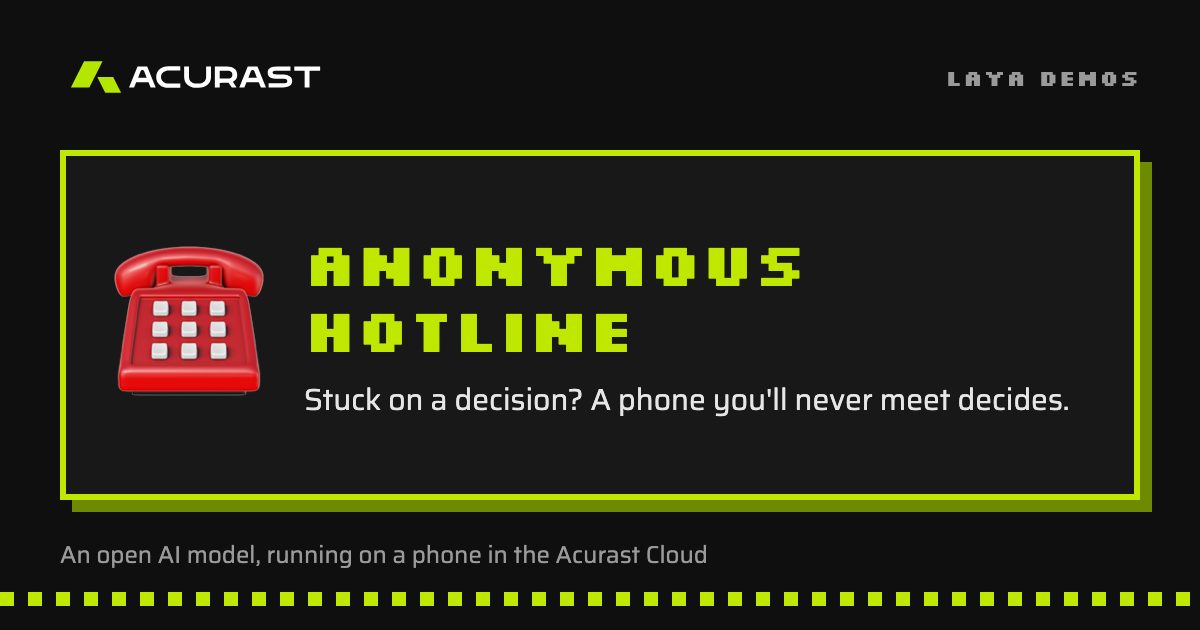
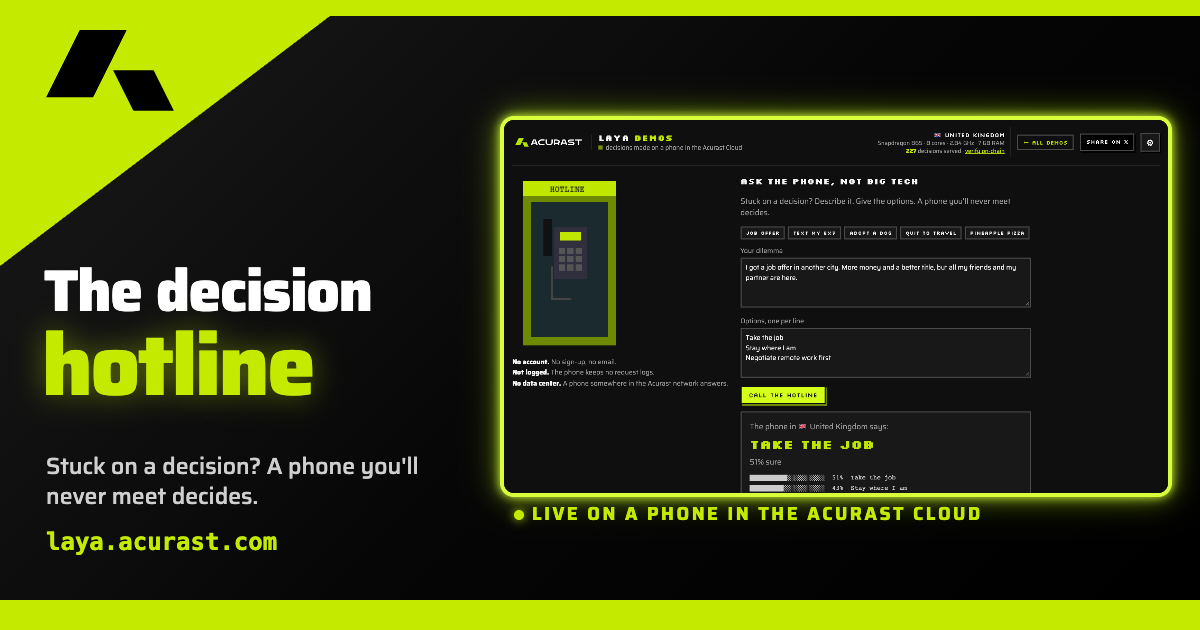
feat(app-cargo-laya): share on X only on the demos, previews show the demo
The header's "Share on X" button is gone from the index, API and stats pages;
each demo keeps it. The link-preview images (og:image) were text-and-emoji
cards and Doom had none; they are now screenshots of each demo running
against a live phone, in the Acurast frame (1200x630, X large card), so a
shared demo shows what it looks like.

diff --git a/apps/app-cargo-laya/app/demos/laya.js b/apps/app-cargo-laya/app/demos/laya.js
@@ -261,6 +261,7 @@ const Laya = (() => {
   const EMBED = new URLSearchParams(location.search).has('embed');
   function brand() {
     const home = PAGE === 'index';
+    const demo = !['index', 'api', 'stats'].includes(PAGE);  // "Share on X" only on the demos themselves
     // Favicon for every page.
     const icon = document.createElement('link'); icon.rel = 'icon'; icon.type = 'image/svg+xml'; icon.href = svgUrl(FAVICON_SVG);
     document.head.appendChild(icon);
@@ -282,11 +283,11 @@ const Laya = (() => {
         <a class="home" href="index.html"><div><div class="brand">LAYA <b>DEMOS</b></div>
         <div class="tag"><span class="dot"></span>decisions made on a phone in the Acurast Cloud</div></div></a>
         <div class="spacer"></div><div class="acu-phone"></div>${home ? '' : '<a class="all" href="index.html">&larr; <span>all demos</span></a>'}
-        <button class="share" title="Share on X">Share <span>on</span> 𝕏</button>
+        ${demo ? '<button class="share" title="Share on X">Share <span>on</span> 𝕏</button>' : ''}
         <button class="gear" title="Settings" aria-label="Settings">&#9881;</button>`;
       document.body.prepend(h);
       h.querySelector('.gear').onclick = () => panel.showModal();
-      h.querySelector('.share').onclick = () => shareOnX();
+      if (demo) h.querySelector('.share').onclick = () => shareOnX();
 
       const f = document.createElement('footer');
       f.className = 'acu-footer';
